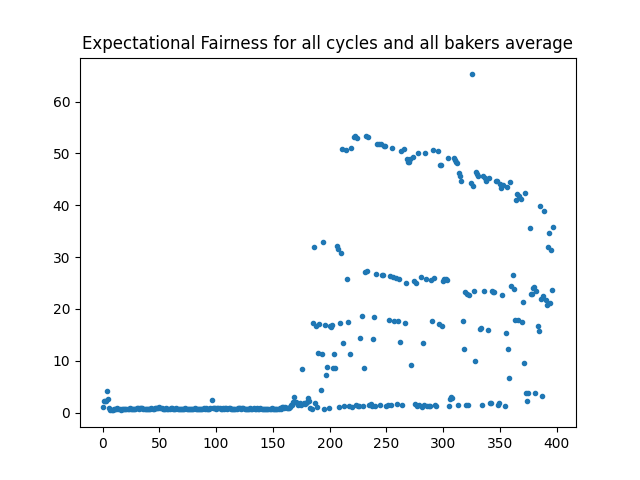
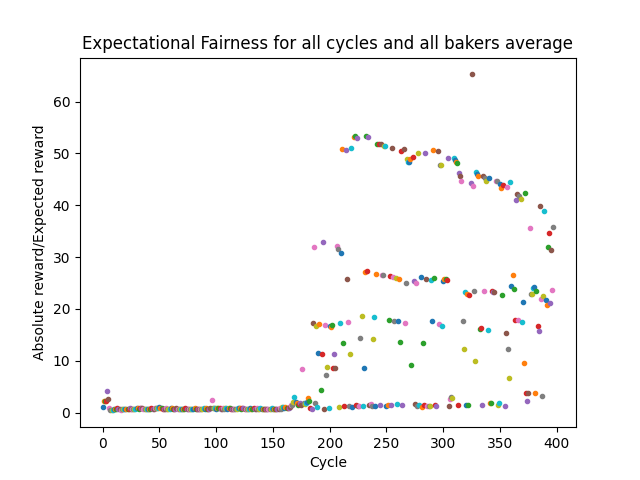
fix exp fairness average plot and add lowest x percentage plot

diff --git a/tezos_analysis.py b/tezos_analysis.py
@@ -538,11 +538,12 @@ def plot_expectational_fairness_all_bakers_per_cycle(start, end):
 def plot_expectational_fairness_all_bakers_all_cycles_average(expectational_fairness_list):
     """we have a list for each cycle where every baker has its exp fairness value -> take average per cycle"""
     x_data = list(range(0, 398))
-    y_data = []
-    for exp in expectational_fairness_list:
-        y = np.mean(exp)
-        y_data.append(y)
-    plt.plot(x_data, y_data, '.')  # exactly one value for each cycle
+    for c in x_data:  # for every cycle take the average
+        exp_c = expectational_fairness_list[c]
+        exp_c_mean = np.mean(exp_c)
+        plt.plot(c, exp_c_mean, '.')
+    plt.xlabel('Cycle')
+    plt.ylabel('Absolute reward/Expected reward')
     plt.title('Expectational Fairness for all cycles and all bakers average')
     plt.savefig('images/expectational_fairness/exp_fairness_allcycles_avg.png')
     plt.close()
@@ -572,7 +573,23 @@ def plot_expectational_fairness_all_bakers_all_cycles_highest_x(expectational_fa
         x_data = [c] * len(exp_c_sorted[last_n:])
         plt.plot(x_data, exp_c_sorted[last_n:], '.')  # print only the highest x values per cycle
    plt.title('Expectational Fairness highest ' + str(x) + ' percent')
+   plt.xlabel('Cycles')
+   plt.ylabel('Absolute reward/Expected reward')
    plt.savefig('images/expectational_fairness/exp_fairness_highest_' + str(x) + '.png')
+   plt.close()
+
+
+def plot_expectational_fairness_all_bakers_all_cycles_lowest_x(expectational_fairness_list, x):
+   for c in range(0, 398):
+        num_lowest_x = int(np.ceil((len(expectational_fairness_list[c]) / 100) * x))
+        first_n = len(expectational_fairness_list[c]) - num_lowest_x
+        exp_c_sorted = np.sort(expectational_fairness_list[c])
+        x_data = [c] * len(exp_c_sorted[:first_n])
+        plt.plot(x_data, exp_c_sorted[:first_n], '.')  # print only the highest x values per cycle
+   plt.title('Expectational Fairness lowest ' + str(x) + ' percent')
+   plt.xlabel('Cycles')
+   plt.ylabel('Absolute reward/Expected reward')
+   plt.savefig('images/expectational_fairness/exp_fairness_lowest_' + str(x) + '.png')
    plt.close()
 
 
@@ -890,7 +907,8 @@ if __name__ == '__main__':
 
     cycle_total_reward_dict, baker_initial_cycle_dict, baker_initial_reward_dict, cycle_list_of_active_bakers_dict = get_bakers_initial_values_fairness()
     exp_fairness_list = compute_expectational_fairness_all_cycles(cycle_total_reward_dict, baker_initial_cycle_dict, baker_initial_reward_dict, cycle_list_of_active_bakers_dict)
-    plot_expectational_fairness_all_bakers_all_cycles_highest_x(exp_fairness_list, 5)  # TODO: check this
+    plot_expectational_fairness_all_bakers_all_cycles_highest_x(exp_fairness_list, 5)
+    plot_expectational_fairness_all_bakers_all_cycles_lowest_x(exp_fairness_list, 5)
     plot_expectational_fairness_all_bakers_all_cycles(exp_fairness_list)
     plot_expectational_fairness_all_bakers_all_cycles_average(exp_fairness_list)  # average over all bakers in each cycle
 
